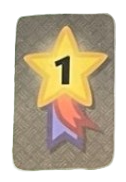
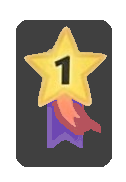
build triggers for vp dont check color built

diff --git a/BoardPanel.java b/BoardPanel.java
@@ -17,7 +17,7 @@ public class BoardPanel extends JPanel implements MouseListener {
 	private ArrayList<Marble> marbles;
 	private ArrayList<Player> players;
 	private boolean firstDraw;
-	private BufferedImage background, playergui, player1gui, gizmoSheet1, gizmoSheet2;
+	private BufferedImage background, playergui, player1gui, gizmoSheet1, gizmoSheet2, victoryPoint1, victoryPoint5;
 	private int yellowCount, redCount, greyCount, blueCount;
 	private Rectangle marbleBound1, marbleBound2, marbleBound3, marbleBound4, marbleBound5, marbleBound6; // temporary
 																											// hardcode
@@ -163,12 +163,15 @@ public class BoardPanel extends JPanel implements MouseListener {
 				
 		try {
 			// Load images
+			
 			marbleDispenser = ImageIO.read(BoardFrame.class.getResource("/images/Dispenser.png"));
 			background = ImageIO.read(BoardFrame.class.getResource("/images/gameback.png"));
 			playergui = ImageIO.read(BoardFrame.class.getResource("/images/playergui.png"));
 			gizmoSheet1 = ImageIO.read(BoardFrame.class.getResource("/images/sheet1.jpg"));
 			gizmoSheet2 = ImageIO.read(BoardFrame.class.getResource("/images/sheet2.jpg"));
 			player1gui = ImageIO.read(BoardFrame.class.getResource("/images/player1gui.png"));
+			victoryPoint1 = ImageIO.read(BoardFrame.class.getResource("/images/victoryPoint1.png"));
+			victoryPoint5 = ImageIO.read(BoardFrame.class.getResource("/images/victoryPoint5.png"));
 		} catch (IOException e) {
 			throw new RuntimeException(e);
 		}
@@ -313,10 +316,21 @@ public class BoardPanel extends JPanel implements MouseListener {
 				greyCount++;
 			}
 		}
+		
 
 		g.drawImage(background, 0, 0, null);
 		if (currentPlayer == 0) { g.drawImage(player1gui, 0, -180, null); }
 		else { g.drawImage(playergui, 0, -180, null); }
+		int v = 0;
+		int increment1Pos = 0;
+		int increment5Pos = 0;
+		while (v < players.get(currentPlayer).getVictoryPoints()) {
+			if (players.get(currentPlayer).getVictoryPoints() == 5) { g.drawImage(victoryPoint5, 88 + increment5Pos, 841, 63, 91, null); increment5Pos+=40; }
+			else { g.drawImage(victoryPoint1, 88 + increment1Pos, 841, 63, 91, null); increment1Pos+=40; }
+			v++;
+			
+			
+		}
 		g.drawImage(marbleDispenser, 0, 0, null);
 		g.setFont(new Font("Proxima Nova", Font.PLAIN, 25));
 		g.setColor(Color.BLACK);
